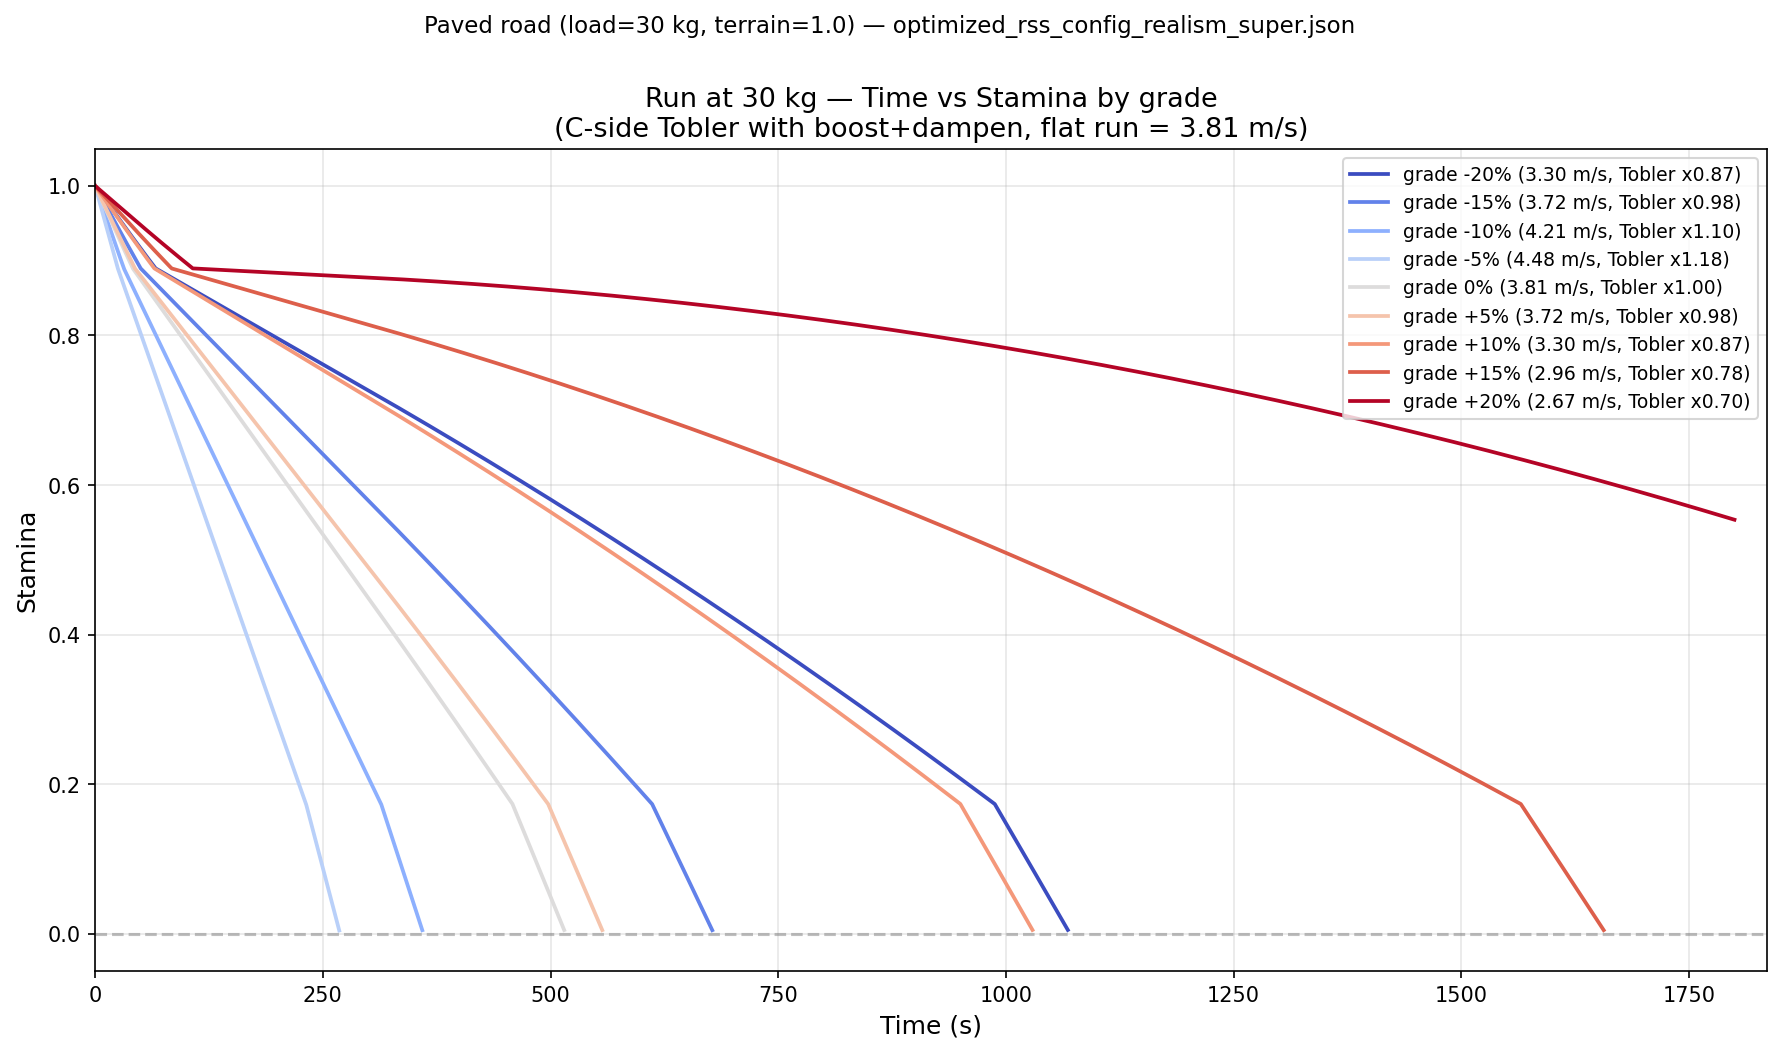
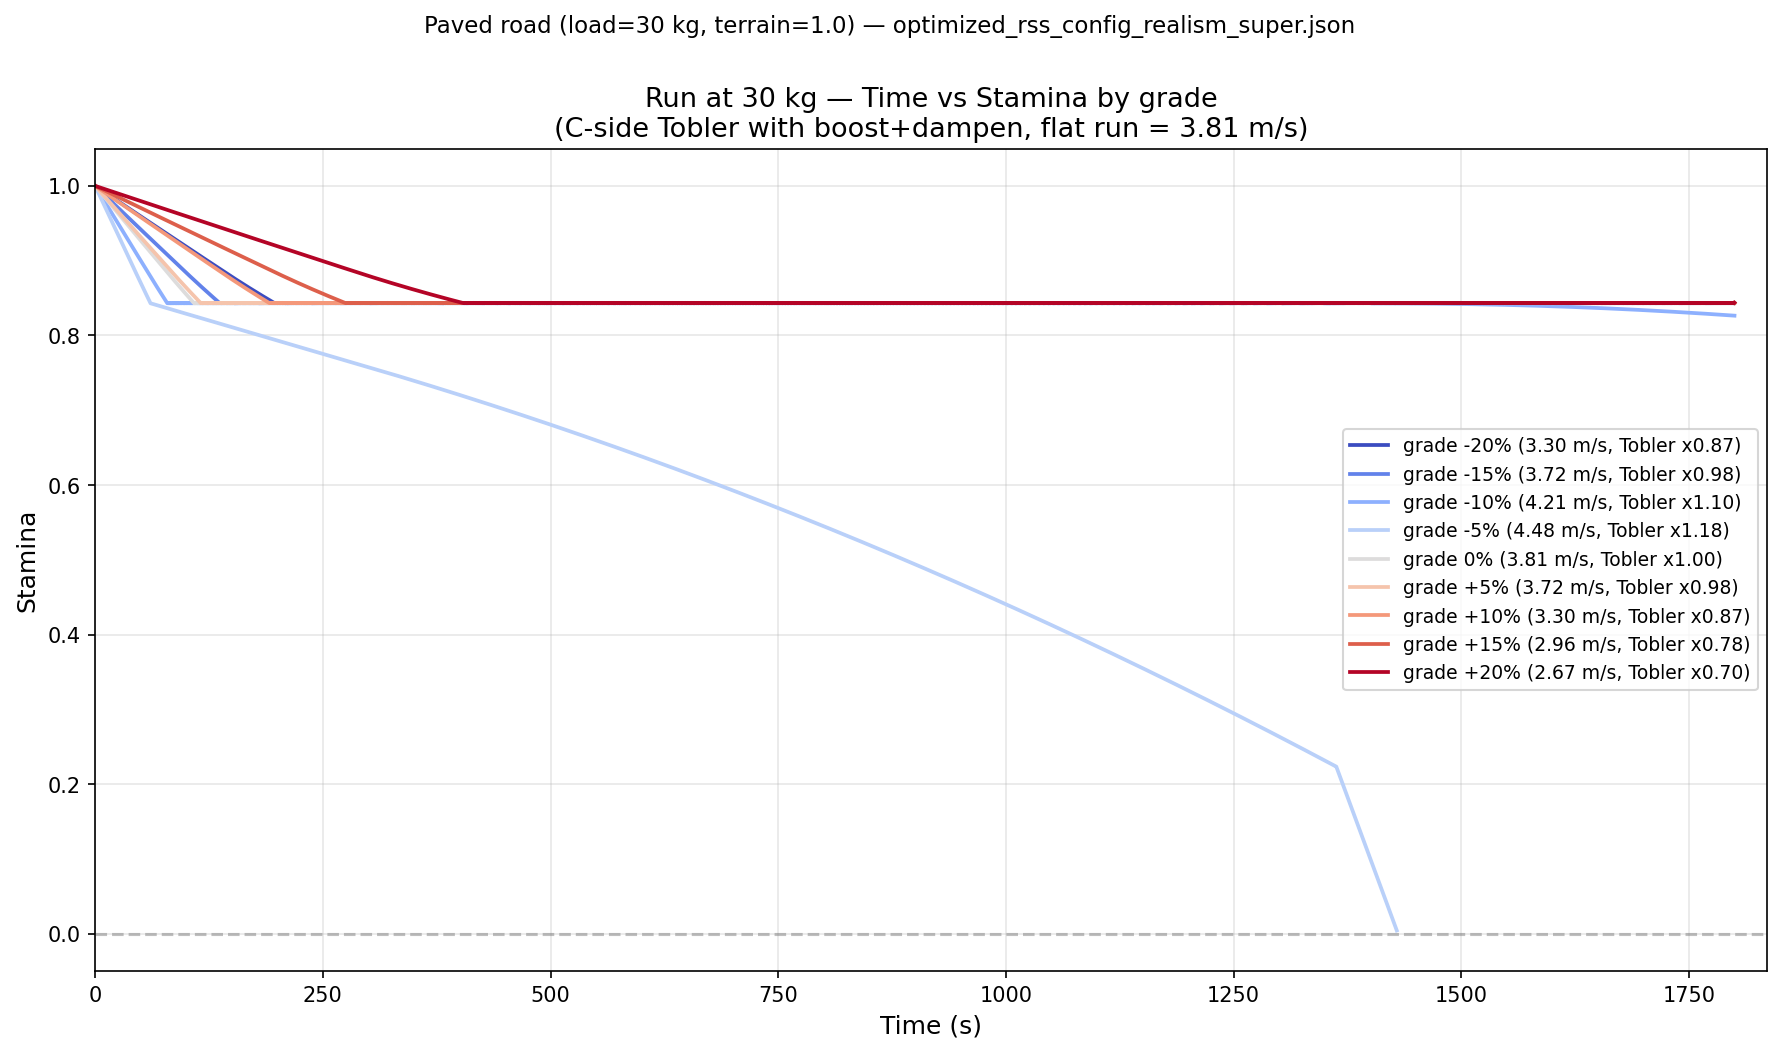
perf(rss): 添加加速模式并更新优化配置

diff --git a/tools/rss_super_pipeline.py b/tools/rss_super_pipeline.py
@@ -599,6 +599,7 @@ class RSSSuperPipeline:
         n_jobs: int = -1,  # -1表示自动检测CPU核心数
         use_database: bool = False,  # 是否使用数据库存储（默认False以提高性能）
         batch_size: int = 5,  # 批处理大小
+        fast_mode: bool = False,  # 加速模式：使用更大时间步长(0.4s vs 0.2s)提速约2倍
         sprint_range: Tuple[float, float] = (2.5, 4.5),  # legacy, no longer used (Pandolf covers sprint)
         sprint_drop_target: Tuple[float, float] = (0.15, 0.40),  # Sprint drop target range (min,max)
         sprint_drop_penalty_below: float = 4000.0,  # penalty scale when below target
@@ -634,10 +635,11 @@ class RSSSuperPipeline:
                     n_jobs -= 1
             except Exception:
                 n_jobs = 1
-        
+
         self.n_trials = n_trials
         self.n_jobs = n_jobs
         self.batch_size = batch_size
+        self.fast_mode = fast_mode  # 加速模式
         self.use_database = use_database
         self.study = None
         self.best_trials = []
@@ -701,7 +703,7 @@ class RSSSuperPipeline:
         )
         
         # 恢复系统相关
-        # 调整：适当收紧上界，避免移动中“回血”过强导致 Run/Sprint 净消耗过低。
+        # 调整：适当收紧上界，避免移动中"回血"过强导致 Run/Sprint 净消耗过低。
         # 允许范围覆盖默认0.00035以上，否则默认值永远不可达
         # 游骑兵版：提高下界至 1.5e-4，保证搜索空间内的参数具备足够的静态恢复能力
         base_recovery_rate = trial.suggest_float(
@@ -728,7 +730,7 @@ class RSSSuperPipeline:
         encumbrance_speed_penalty_coeff = trial.suggest_float(
             'encumbrance_speed_penalty_coeff', 0.10, 0.16  # 游骑兵：重装掉速极小
         )
-        # [DEPRECATED] C 端负重速度惩罚改为“分段非线性 + 软阈值”，不再使用 exponent 参与曲线形状。
+        # [DEPRECATED] C 端负重速度惩罚改为"分段非线性 + 软阈值"，不再使用 exponent 参与曲线形状。
         # 仍保留该字段写入 JSON/C 端结构体以兼容旧配置，但优化器不再搜索该维度。
         encumbrance_speed_penalty_exponent = 1.5
         # 游骑兵版：上界收紧至 0.70，防止极端负重（55kg）造成近乎定身（>70% 速度惩罚）
@@ -1024,8 +1026,8 @@ class RSSSuperPipeline:
         
         # ==================== 7. 软约束检查（参数合理性惩罚） ====================
         # 目标：
-        # - Sprint / Run 必须“净消耗”且消耗不应过低
-        # - Walk 必须“缓慢净恢复”（不应快到像静止趴下回血）
+        # - Sprint / Run 必须"净消耗"且消耗不应过低
+        # - Walk 必须"缓慢净恢复"（不应快到像静止趴下回血）
         movement_balance_penalty, actual_sprint_drop = self._evaluate_movement_balance_penalty(constants)
         if movement_balance_penalty > 0.0:
             constraint_penalty += movement_balance_penalty
@@ -1270,7 +1272,7 @@ class RSSSuperPipeline:
         return realism_score
     
     def _evaluate_movement_balance_penalty(self, constants: RSSConstants) -> Tuple[float, float]:
-        """基于短时段“移动净值”行为的软硬约束惩罚。
+        """基于短时段"移动净值"行为的软硬约束惩罚。
         Returns:
             (penalty, actual_sprint_drop)
         """
@@ -1342,7 +1344,7 @@ class RSSSuperPipeline:
         # 与全局 sprint_drop_target 一致（默认 0.15~0.40），避免移动平衡与冲刺剩余/联合约束两套标准
         required_sprint_drop_min, required_sprint_drop_max = getattr(self, 'sprint_drop_target', (0.15, 0.40))
         # 硬约束：冲刺压降不得超过上限（例如 ≤40%）
-        # 目的：即便是帕累托前沿中最差的“踩线”解，也必须满足该生理底线。
+        # 目的：即便是帕累托前沿中最差的"踩线"解，也必须满足该生理底线。
         if actual_sprint_drop > required_sprint_drop_max:
             raise optuna.exceptions.TrialPruned(
                 f"Sprint Drop {actual_sprint_drop:.2%} 低于硬约束上限 {required_sprint_drop_max:.0%}"
@@ -1403,7 +1405,8 @@ class RSSSuperPipeline:
                 terrain_factor=scenario.terrain_factor,
                 stance=scenario.stance,
                 movement_type=scenario.movement_type,
-                enable_randomness=ENABLE_RANDOMNESS_IN_SIMULATION
+                enable_randomness=ENABLE_RANDOMNESS_IN_SIMULATION,
+                fast_mode=getattr(self, 'fast_mode', False)
             )
             
             # 检查是否通过基础体能测试
@@ -1431,7 +1434,7 @@ class RSSSuperPipeline:
     def _check_ranger_29kg_38ms_eta(self, twin: RSSDigitalTwin) -> None:
         """
         硬约束：29kg 负重、3.8 m/s 奔跑在指定时长后体力不得低于阈值。
-        用于保证工作台中 ETA 明显高于 3min38s（当前反馈的“只能 3min38s”）。
+        用于保证工作台中 ETA 明显高于 3min38s（当前反馈的"只能 3min38s"）。
         不通过则剪枝。
         """
         pcfg = getattr(self, 'PLAYABILITY', RSSSuperPipeline.PLAYABILITY)
@@ -1449,6 +1452,7 @@ class RSSSuperPipeline:
             stance=Stance.STAND,
             movement_type=MovementType.RUN,
             enable_randomness=ENABLE_RANDOMNESS_IN_SIMULATION,
+            fast_mode=getattr(self, 'fast_mode', False)
         )
         min_stamina = float(results['min_stamina'])
         if min_stamina < min_stamina_req:
@@ -1542,7 +1546,8 @@ class RSSSuperPipeline:
                     stance=scenario.stance,
                     movement_type=scenario.movement_type,
                     enable_randomness=ENABLE_RANDOMNESS_IN_SIMULATION,
-                    temperature_celsius=temp_celsius
+                    temperature_celsius=temp_celsius,
+                    fast_mode=getattr(self, 'fast_mode', False)
                 )
                 
                 # 计算当前场景的可玩性负担（连续型，避免大量解被压成同一常数）
@@ -1573,19 +1578,20 @@ class RSSSuperPipeline:
                     # 文献约束：30kg 600m/1000m 剩余体力目标带 + 跛行惩罚（见 stamina_consumption_reference.md）
                     test_type = getattr(scenario, 'test_type', '')
                     if test_type == '30kg跑道600m':
-                        target_low = pcfg.get('run_600m_remaining_target_low', 0.50)
-                        limp = pcfg.get('run_600m_remaining_limp', 0.25)
-                        coeff_target = pcfg.get('run_600m_below_target_coeff', 3500.0)
-                        coeff_limp = pcfg.get('run_600m_below_limp_coeff', 6000.0)
+                        target_low = pcfg.get('run_600m_remaining_target_low', 0.68)
+                        limp = pcfg.get('run_600m_remaining_limp', 0.55)
+                        coeff_target = pcfg.get('run_600m_below_target_coeff', 8000.0)
+                        coeff_limp = pcfg.get('run_600m_below_limp_coeff', 12000.0)
                         if min_stamina < limp:
                             scenario_burden += (limp - min_stamina) * coeff_limp
                         elif min_stamina < target_low:
                             scenario_burden += (target_low - min_stamina) * coeff_target
                     elif test_type == '30kg跑道1km':
-                        target_low = pcfg.get('run_1km_remaining_target_low', 0.40)
-                        limp = pcfg.get('run_1km_remaining_limp', 0.25)
-                        coeff_target = pcfg.get('run_1km_below_target_coeff', 3500.0)
-                        coeff_limp = pcfg.get('run_1km_below_limp_coeff', 6000.0)
+                        # 1km跑更久(约262s vs 157s)，允许剩余体力低于600m
+                        target_low = pcfg.get('run_1km_remaining_target_low', 0.48)
+                        limp = pcfg.get('run_1km_remaining_limp', 0.35)
+                        coeff_target = pcfg.get('run_1km_below_target_coeff', 8000.0)
+                        coeff_limp = pcfg.get('run_1km_below_limp_coeff', 12000.0)
                         if min_stamina < limp:
                             scenario_burden += (limp - min_stamina) * coeff_limp
                         elif min_stamina < target_low:
@@ -1604,17 +1610,22 @@ class RSSSuperPipeline:
                 else:
                     min_stamina_out = None
                 return (float(scenario_burden), scenario, min_stamina_out)
+            except optuna.exceptions.TrialPruned:
+                # 已经包含 TrialPruned 异常，直接重新抛出
+                raise
             except Exception as e:
-                # 如果仿真失败，返回大惩罚值
+                # 如果仿真失败，视为被剪枝（避免异常trial被记录到帕累托解中）
                 print(f"场景评估失败: {e}")
-                return (2000.0, None, None)
+                raise optuna.exceptions.TrialPruned(f"场景评估失败: {e}")
         
         # 使用自定义并行工作器并行评估场景
         try:
             # 确保并行工作器已启动
             if not hasattr(self.parallel_worker, 'executor') or self.parallel_worker.executor is None:
                 self.parallel_worker.start()
-            results_list = self.parallel_worker.map(evaluate_scenario, scenarios, batch_size=1)
+            # 使用更大的batch_size提高并行效率
+            eval_batch_size = max(self.batch_size, 4)
+            results_list = self.parallel_worker.map(evaluate_scenario, scenarios, batch_size=eval_batch_size)
         except Exception as e:
             # 如果并行处理失败，回退到串行处理
             print(f"并行处理失败，回退到串行: {e}")
@@ -1627,13 +1638,14 @@ class RSSSuperPipeline:
                 continue
             test_type = getattr(scenario, 'test_type', '')
             if test_type == '30kg跑道600m':
-                thr = pcfg.get('run_600m_remaining_target_low', 0.50)
+                thr = pcfg.get('run_600m_remaining_target_low', 0.68)
                 if min_stamina < thr:
                     raise optuna.exceptions.TrialPruned(
                         f"30kg 600m 剩余体力 {min_stamina:.2%} 低于硬约束 {thr:.0%}"
                     )
             elif test_type == '30kg跑道1km':
-                thr = pcfg.get('run_1km_remaining_target_low', 0.60)
+                # 1km跑更久(约262s vs 157s)，允许剩余体力低于600m
+                thr = pcfg.get('run_1km_remaining_target_low', 0.48)
                 if min_stamina < thr:
                     raise optuna.exceptions.TrialPruned(
                         f"30kg 1000m 剩余体力 {min_stamina:.2%} 低于硬约束 {thr:.0%}"
@@ -1687,9 +1699,9 @@ class RSSSuperPipeline:
         ]
 
         for i, (scenario_burden, scenario, _) in enumerate(results_list):
-            # 如果场景仿真失败，返回极大惩罚值（但不要“夹紧”成常数，否则会让目标函数失去区分度）
+            # 如果场景仿真失败（scenario为None），视为被剪枝
             if scenario is None:
-                return 2_000_000.0
+                raise optuna.exceptions.TrialPruned("场景评估失败，scenario为None")
             total_burden += float(scenario_burden) * weights[i]
         
         # 参数多样性惩罚：降低权重，避免与可玩性目标冲突
@@ -1764,7 +1776,8 @@ class RSSSuperPipeline:
                 terrain_factor=1.5,  # 困难地形
                 stance=Stance.STAND,
                 movement_type=MovementType.RUN,
-                enable_randomness=ENABLE_RANDOMNESS_IN_SIMULATION
+                enable_randomness=ENABLE_RANDOMNESS_IN_SIMULATION,
+                fast_mode=getattr(self, 'fast_mode', False)
             )
             
             stamina_history = chaos_results['stamina_history']
@@ -1870,9 +1883,9 @@ class RSSSuperPipeline:
                         }
                     ))
 
-            # ==================== 连续型“风险评分”（让稳定性目标有梯度）====================
-            # 仅靠“是否触发BUG”会导致稳定性目标大面积为 0，从而退化为单目标优化。
-            # 这里加入“接近崩溃”的软风险：在极端场景下体力越接近耗尽，风险越高。
+            # ==================== 连续型"风险评分"（让稳定性目标有梯度）====================
+            # 仅靠"是否触发BUG"会导致稳定性目标大面积为 0，从而退化为单目标优化。
+            # 这里加入"接近崩溃"的软风险：在极端场景下体力越接近耗尽，风险越高。
             if stamina_history:
                 min_stamina = float(min(stamina_history))
                 final_stamina = float(stamina_history[-1])
@@ -2203,7 +2216,8 @@ class RSSSuperPipeline:
                     terrain_factor=1.0,
                     stance=Stance.STAND,
                     movement_type=MovementType.RUN,
-                    enable_randomness=ENABLE_RANDOMNESS_IN_SIMULATION
+                    enable_randomness=ENABLE_RANDOMNESS_IN_SIMULATION,
+                    fast_mode=getattr(self, 'fast_mode', False)
                 )
                 return results
             except Exception as e:
@@ -2229,7 +2243,8 @@ class RSSSuperPipeline:
                 terrain_factor=acft.terrain_factor,
                 stance=acft.stance,
                 movement_type=acft.movement_type,
-                enable_randomness=ENABLE_RANDOMNESS_IN_SIMULATION
+                enable_randomness=ENABLE_RANDOMNESS_IN_SIMULATION,
+                fast_mode=getattr(self, 'fast_mode', False)
             )
         except Exception:
             acft_res = None
@@ -2621,11 +2636,17 @@ def main():
     # 使用CPU核心数作为默认线程数
     import multiprocessing
     n_jobs = multiprocessing.cpu_count()
-    
-    # 询问是否启动GUI
+
+    # 快速模式：使用更大时间步长提速约2倍
     import sys
+    fast_mode = "--fast" in sys.argv
+
+    # 询问是否启动GUI
     use_gui = "--gui" in sys.argv or "--no-gui" not in sys.argv
-    
+
+    if fast_mode:
+        print("[快速模式] 已启用：使用更大时间步长(0.4s)，提速约2倍")
+
     if use_gui:
         print("正在启动GUI优化器...")
         
@@ -2641,7 +2662,7 @@ def main():
     # 设置为500次迭代以快速验证优化效果
     # use_database=False 使用内存存储以提高性能（默认）
     # 如果需要后续诊断，可以设置 use_database=True（但会降低性能）
-    pipeline = RSSSuperPipeline(n_trials=1000, n_jobs=n_jobs, use_database=False)
+    pipeline = RSSSuperPipeline(n_trials=1000, n_jobs=n_jobs, use_database=False, fast_mode=fast_mode)
     
     # 如果使用GUI，设置回调函数
     if use_gui:

diff --git a/tools/rss_digital_twin_fix.py b/tools/rss_digital_twin_fix.py
@@ -1008,7 +1008,8 @@ class RSSDigitalTwin:
     def simulate_scenario(self, speed_profile: List, current_weight: float,
                           grade_percent: float, terrain_factor: float, stance: int,
                           movement_type: int, enable_randomness: bool = True,
-                          temperature_celsius: float = None, wind_speed_mps: float = None) -> Dict:
+                          temperature_celsius: float = None, wind_speed_mps: float = None,
+                          fast_mode: bool = False) -> Dict:
         self.reset()
         c = self.constants
         heat_threshold = 30.0
@@ -1048,20 +1049,23 @@ class RSSDigitalTwin:
         game_max = getattr(self.constants, 'GAME_MAX_SPEED', 5.5)
         max_pen = getattr(self.constants, 'ENCUMBRANCE_SPEED_PENALTY_MAX', 0.75)
 
+        # 加速模式：使用更大的时间步长（0.4s vs 0.2s），速度提升约2倍
+        dt = 0.4 if fast_mode else 0.2
+
         # 检查 speed_profile 格式
         if speed_profile and len(speed_profile[0]) > 2:
             # 战斗周期场景格式：(duration, speed, movement_type, stance, name, grade_percent)
             for phase in speed_profile:
                 duration, speed, phase_movement_type, phase_stance, _, phase_grade = phase
-                steps = int(duration / 0.2)
+                steps = int(duration / dt)
                 posture_speed_mult = {Stance.STAND: 1.0, Stance.CROUCH: 0.7, Stance.PRONE: 0.3}.get(phase_stance, 1.0)
-                
+
                 for _ in range(steps):
                     wind_drag = getattr(self, '_scenario_wind_drag', 0.0)
                     self.step(speed, current_weight, phase_grade, terrain_factor,
                              phase_stance, phase_movement_type, current_time, enable_randomness, wind_drag)
-                    current_time += 0.2
-                    nominal_distance += speed * 0.2
+                    current_time += dt
+                    nominal_distance += speed * dt
 
                     base_pen = self._encumbrance_speed_penalty_base(current_weight)
                     speed_ratio = float(np.clip(speed / game_max, 0.0, 1.0))
@@ -1070,7 +1074,7 @@ class RSSDigitalTwin:
                         speed_penalty = speed_penalty * 1.5
                     speed_penalty = float(np.clip(speed_penalty, 0.0, max_pen))
                     effective_speed = speed * posture_speed_mult * (1.0 - speed_penalty)
-                    total_distance += effective_speed * 0.2
+                    total_distance += effective_speed * dt
         else:
             # 标准格式：(time, speed)
             time_points = [t for t, _ in speed_profile]
@@ -1082,14 +1086,14 @@ class RSSDigitalTwin:
                 end_time = time_points[i + 1]
                 speed = speeds[i]
                 duration = end_time - start_time
-                steps = int(duration / 0.2)
+                steps = int(duration / dt)
 
                 for _ in range(steps):
                     wind_drag = getattr(self, '_scenario_wind_drag', 0.0)
                     self.step(speed, current_weight, grade_percent, terrain_factor,
                              stance, movement_type, current_time, enable_randomness, wind_drag)
-                    current_time += 0.2
-                    nominal_distance += speed * 0.2
+                    current_time += dt
+                    nominal_distance += speed * dt
 
                     base_pen = self._encumbrance_speed_penalty_base(current_weight)
                     speed_ratio = float(np.clip(speed / game_max, 0.0, 1.0))
@@ -1098,7 +1102,7 @@ class RSSDigitalTwin:
                         speed_penalty = speed_penalty * 1.5
                     speed_penalty = float(np.clip(speed_penalty, 0.0, max_pen))
                     effective_speed = speed * posture_speed_mult * (1.0 - speed_penalty)
-                    total_distance += effective_speed * 0.2
+                    total_distance += effective_speed * dt
 
         min_stamina = min(self.stamina_history) if self.stamina_history else 1.0
         ratio = nominal_distance / max(total_distance, 1e-6) if nominal_distance > 0 else 1.0

diff --git a/tools/plot_combat_cycle_30kg_en.py b/tools/plot_combat_cycle_30kg_en.py
@@ -119,7 +119,9 @@ def simulate_combat_cycle(twin, speed_profile, current_weight, terrain_factor=1.
         terrain_factor=terrain_factor,
         stance=0,
         movement_type=0,
-        enable_randomness=False
+        enable_randomness=False,
+        temperature_celsius=20.0,
+        wind_speed_mps=0.0
     )
     
     # Extract data from results
